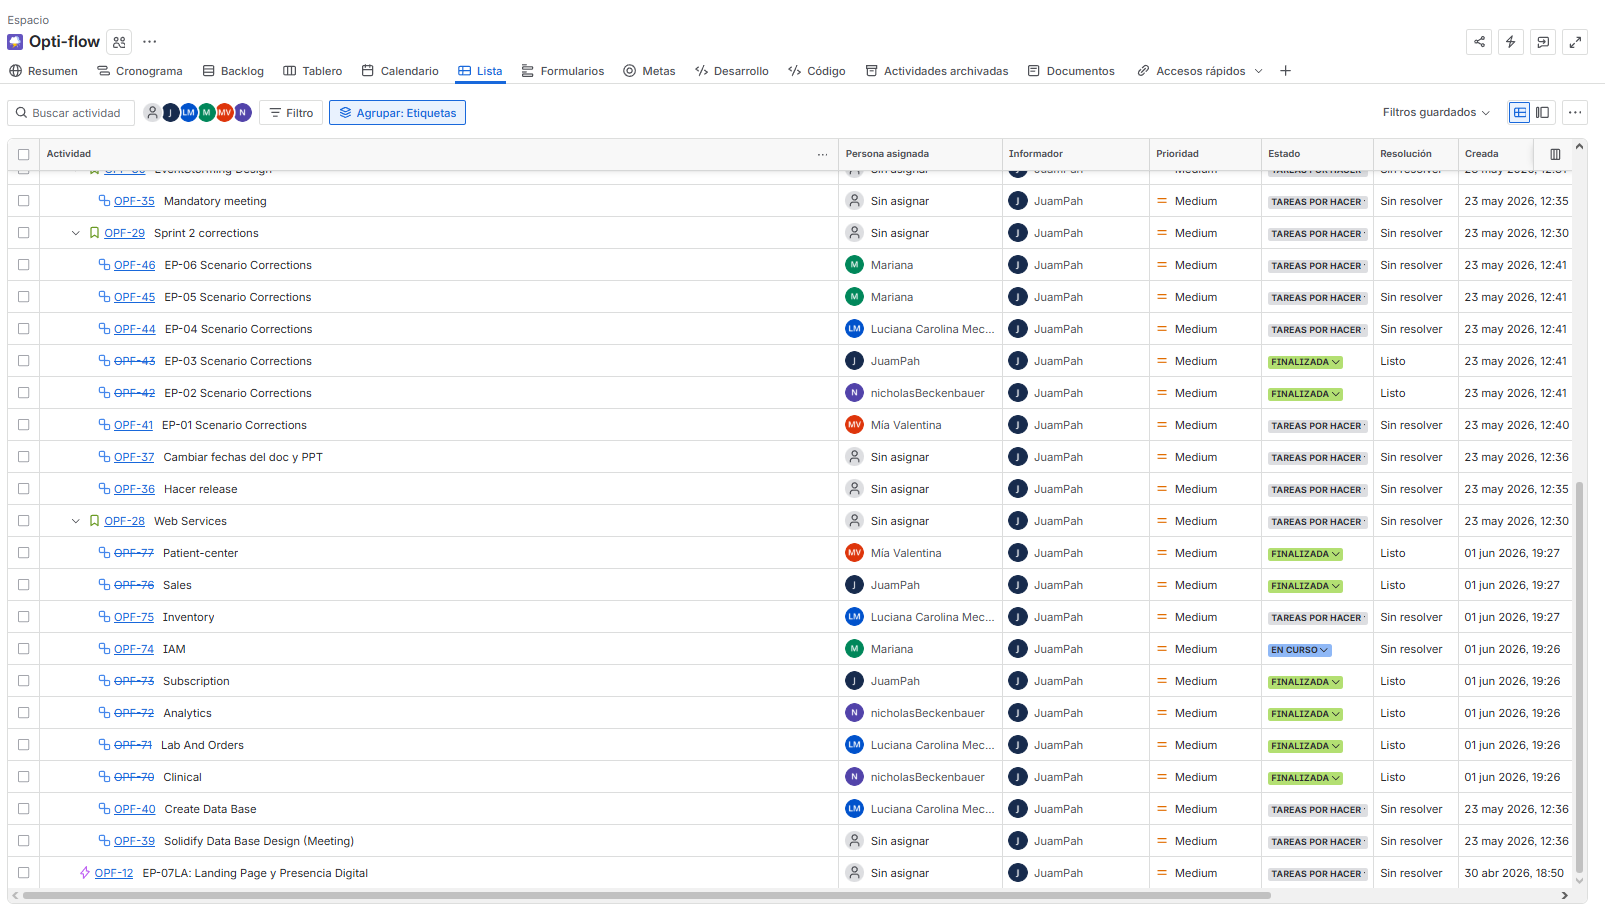
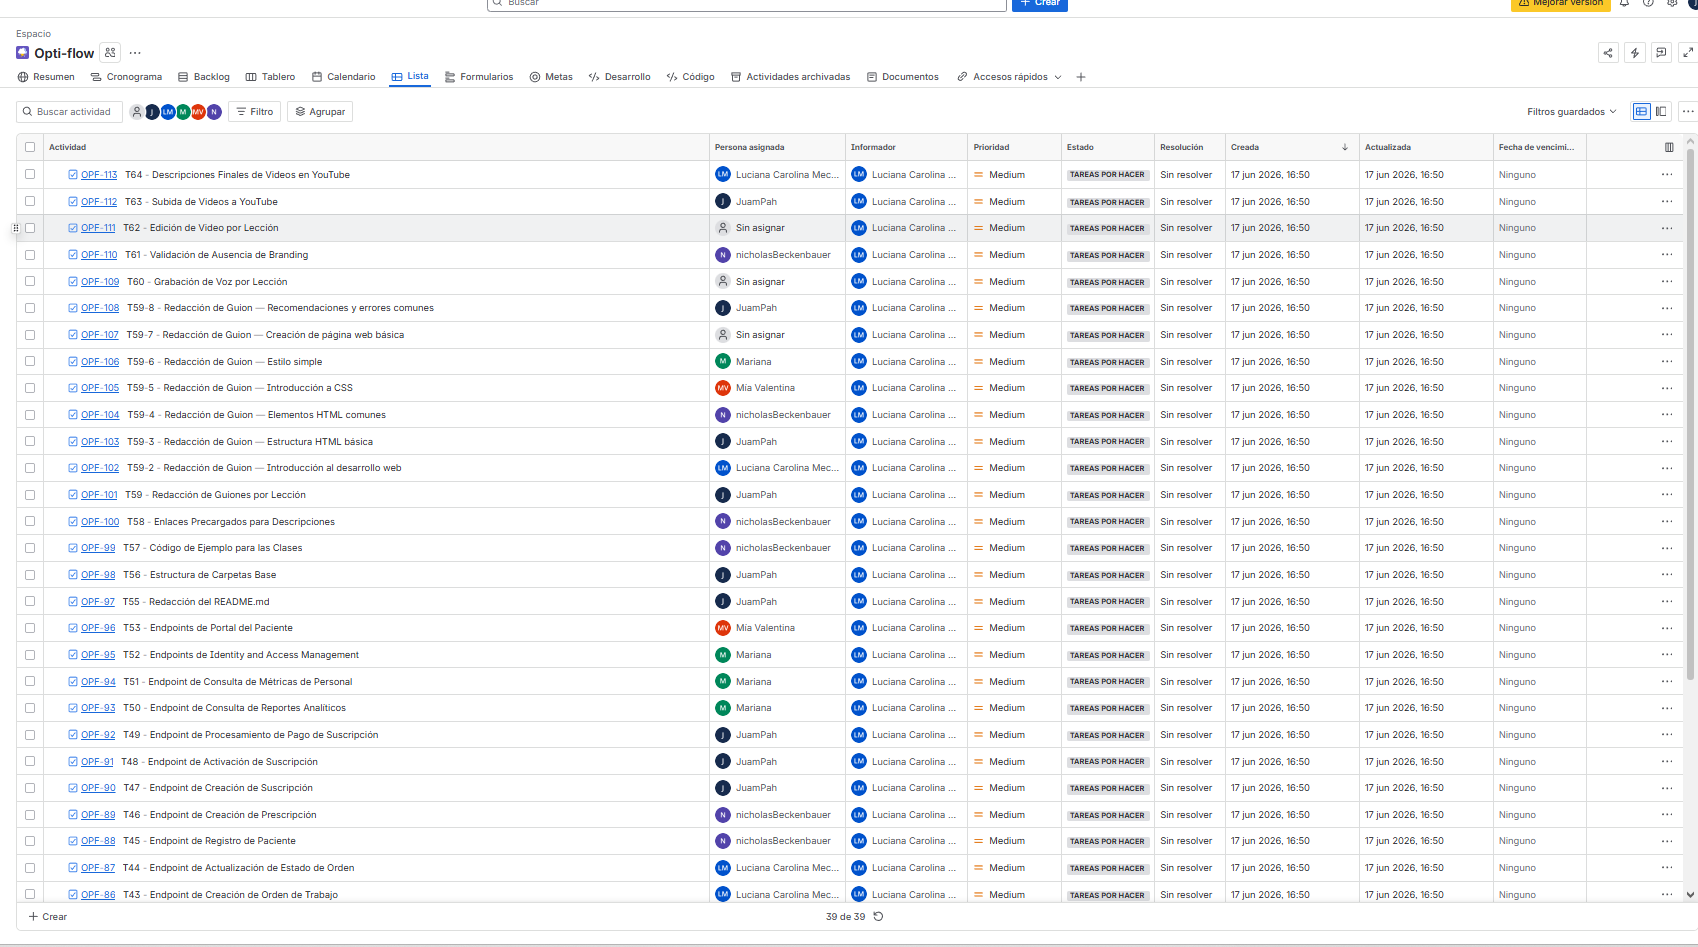
docs(sprint-3): add updated jira board image and trello board image

diff --git a/README.md b/README.md
@@ -38,7 +38,7 @@ u202411521 - Morocho Pinedo, Mariana
 
 ***
 
-*Abril, 2026*
+*Junio, 2026*
 
 </div>
 
@@ -50,6 +50,7 @@ u202411521 - Morocho Pinedo, Mariana
 |---|---|---|---|
 | 1.0.0 | 25/04/26 | Atoche, Azama, Capillo, Mechan, Morocho | Primera versión (TB1): Implementación de Lean UX, DDD, Needfinding, Prototipos del frontend, Arquitectura de Software y despliegue inicial del Landing Page. |
 | 2.0.0 | 10/05/26 | Atoche, Azama, Capillo, Mechan, Morocho | Segunda versión (TB2): Corrección de observaciones del TB1; especificación formal de repositorios de Web App y Backend en Source Code Management; despliegue e implementación del Frontend Web App con integración a Fake RESTful API (json-server); documentación de Sprint 2 incluyendo Sprint Planning, Aspect Leaders, Sprint Backlog, Development Evidence, Execution Evidence, Services Documentation Evidence y Team Collaboration Insights; redacción de Validation Interviews (diseño, registro y evaluación heurística); adición de Video About-the-Product; y corrección de bugs estructurales del informe. |
+| 3.0.0 | 17/06/26 | Atoche, Azama, Capillo, Mechan, Morocho | Tercera versión (TB3): Corrección de observaciones del TB2; diseño e implementación del esquema de base de datos relacional con SQL Server; desarrollo del backend Web Services en ASP.NET Core cubriendo los bounded contexts de Inventory, Sales, Lab & Orders, Clinical, Subscription y Analytics; documentación de Sprint 3 incluyendo Sprint Planning, Aspect Leaders, Sprint Backlog, Development Evidence, Execution Evidence y Services Documentation Evidence con especificación OpenAPI/Swagger de los endpoints implementados; actualización de Validation Interviews con registro de entrevistas y evaluación heurística de la aplicación web (5 problemas identificados y documentados); y actualización de Team Collaboration Insights con métricas de contribución del equipo. |
 
 ***
 

diff --git a/report/05-chapter5.md b/report/05-chapter5.md
@@ -1668,9 +1668,16 @@ En el sprint principalmente se tomó enfoque en el desarrollo de la parte del ba
   </tbody>
 </table>
 
+Si bien es cierto el enunciado solicita la utilización de la herramienta de Trello, nosotros optamos por utilizar Jira como nuestra herramienta de desarrollo ágil. Aún así, mostramos una captura con delegaciones en el trello solo para poder cumplir con el requisito del enucniado, además de mostrar las capturas del Jira.
+
 #### Gestión colaborativa y seguimiento de incidencias mediante Jira
 ![jira-screenshot](../assets/jira-screenshot.png)
 ![jira-screenshot-2](../assets/jira-screenshot-2.png)
+
+
+#### Gestión colaborativa y seguimiento de incidencias mediante Trello
+![trello-screenshot](../assets/trello-screenshot.png)
+
 
 #### Development Evidence for Sprint Review  
 
